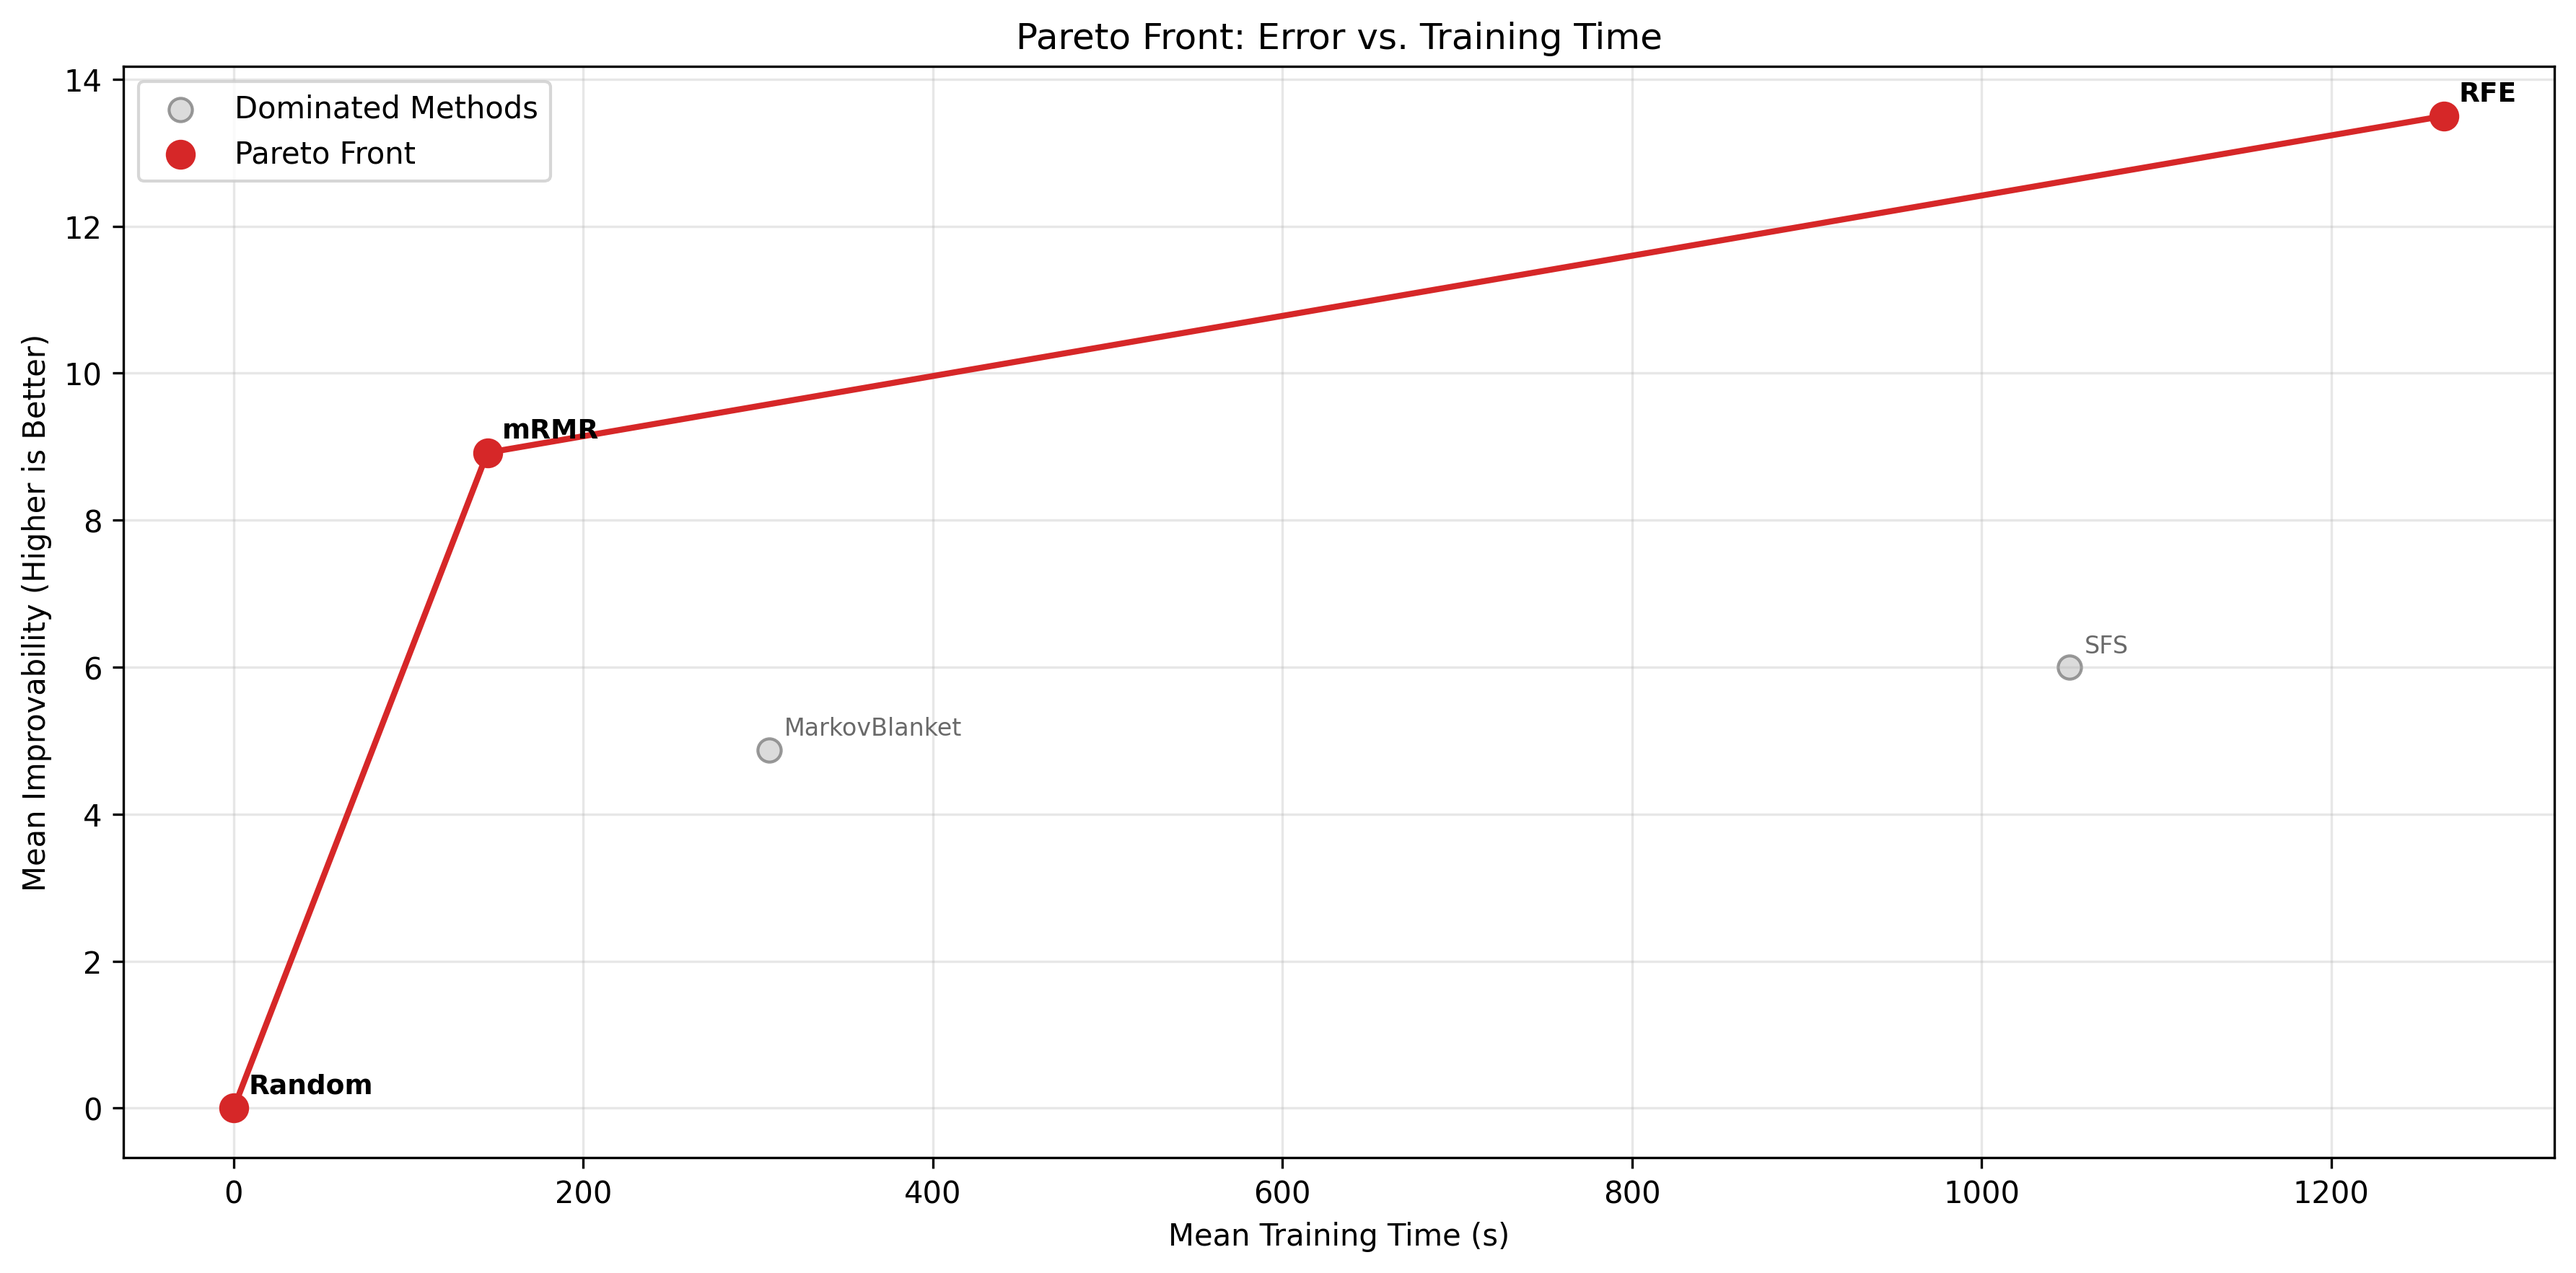
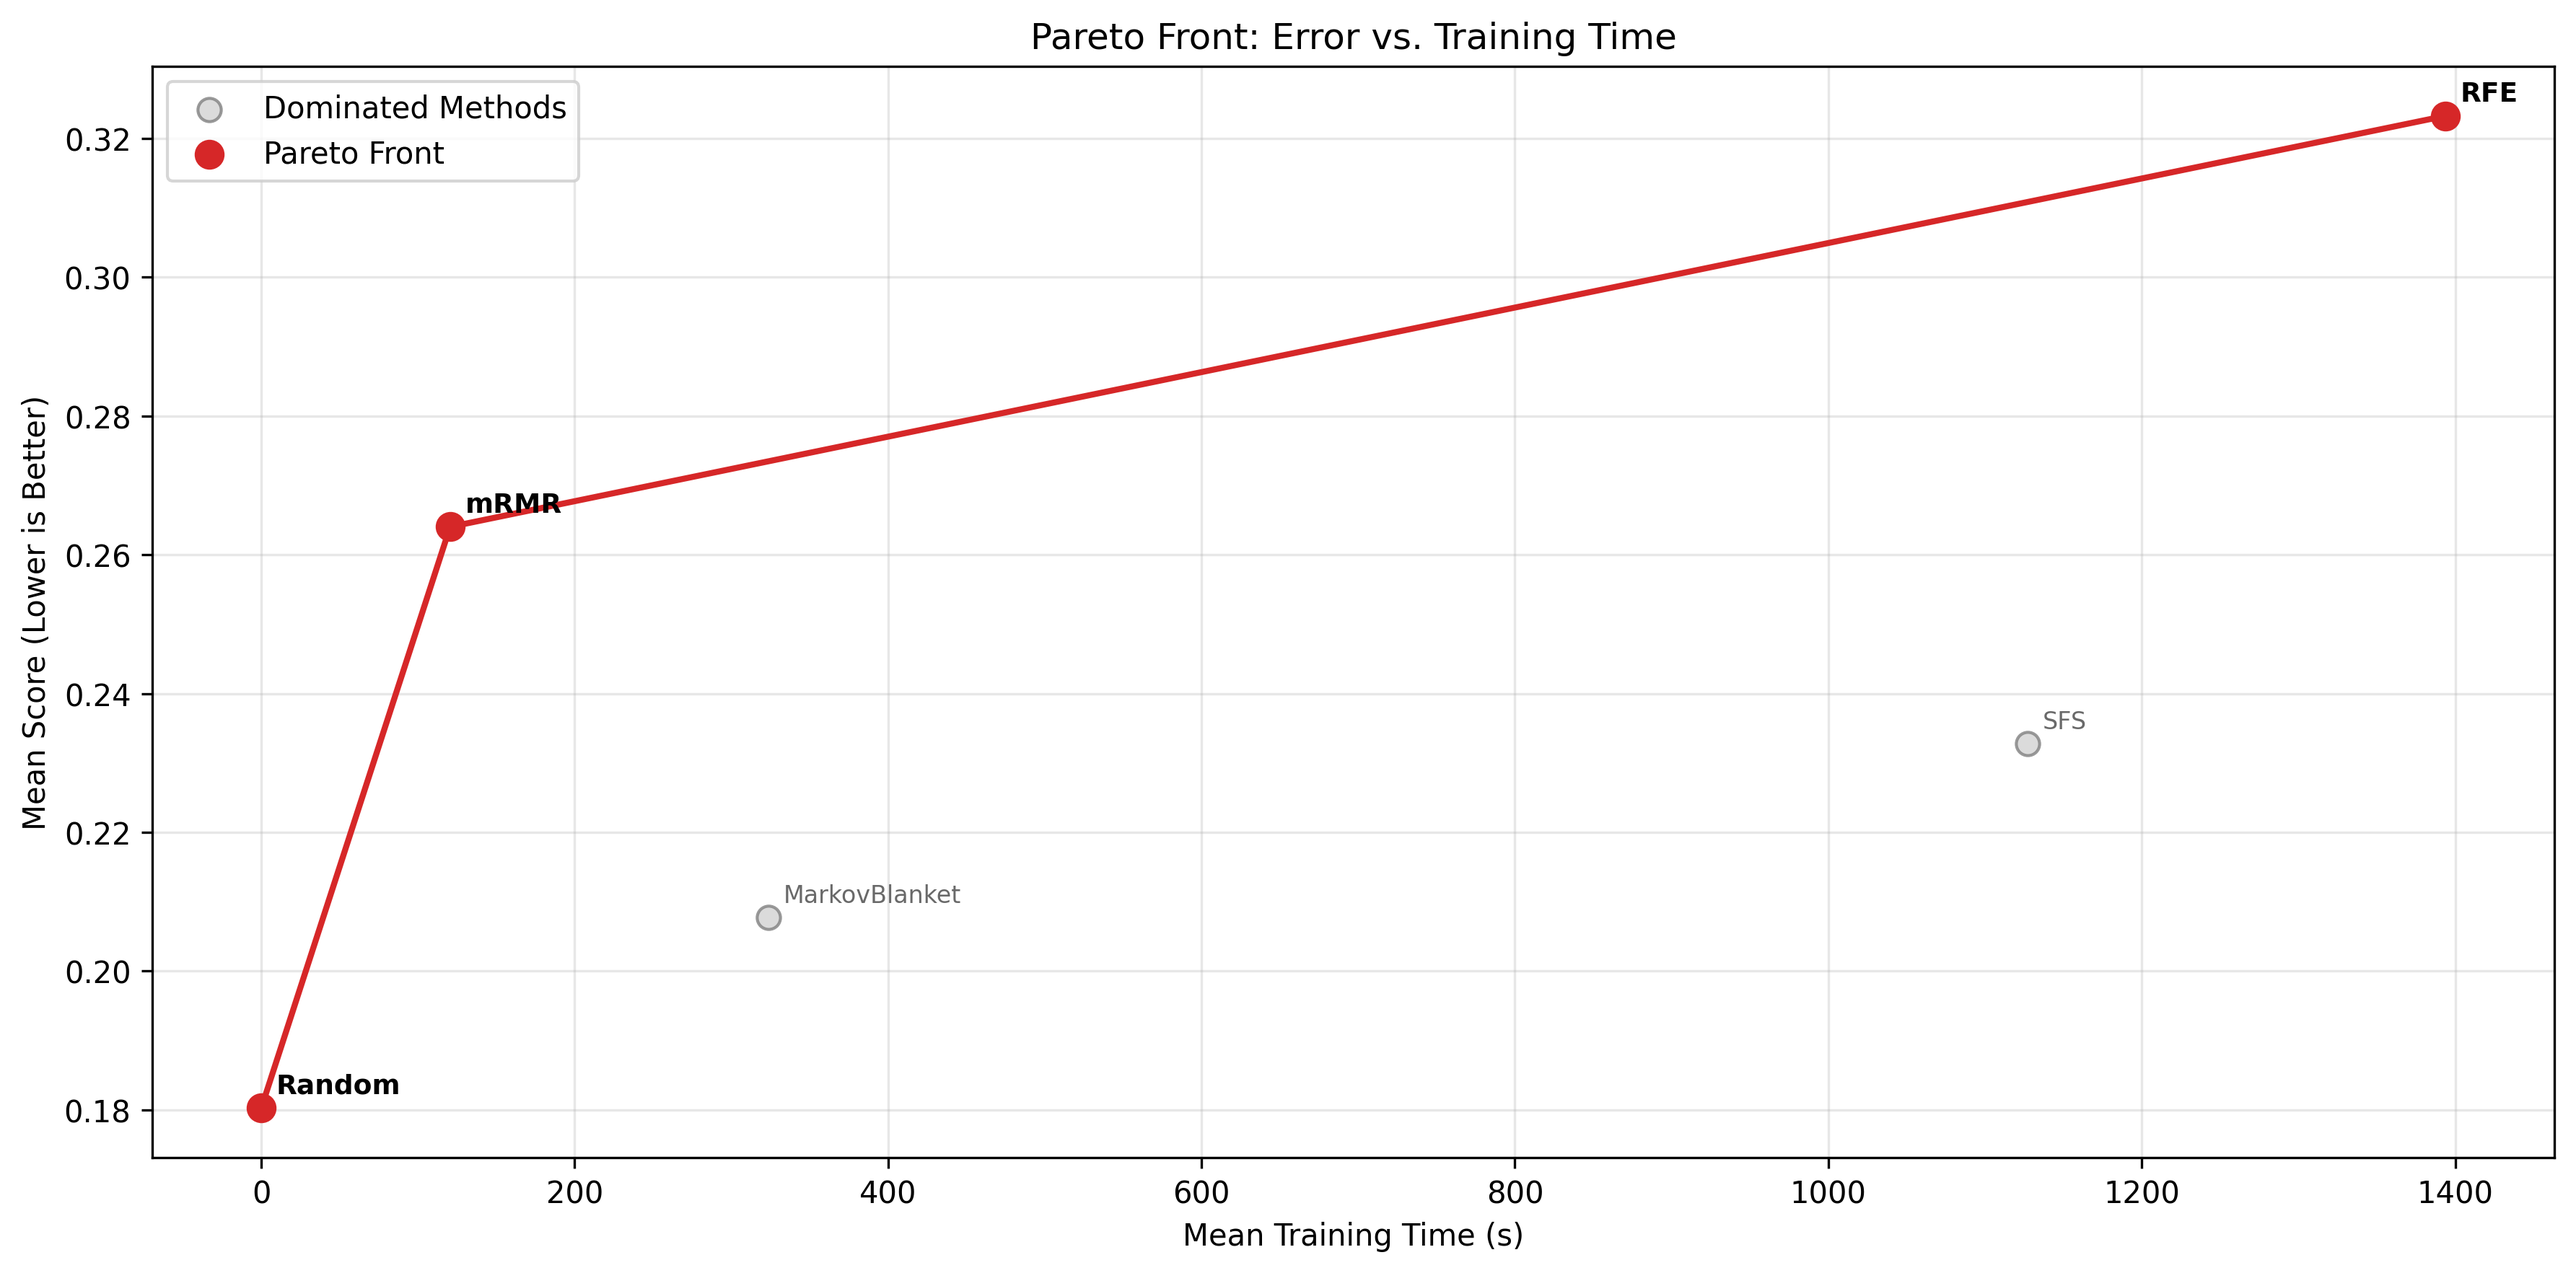
maint: pareto front normalized score - time

diff --git a/plotting_code/performance/normalization/pareto_performance_time_v1.py b/plotting_code/performance/normalization/pareto_performance_time_v1.py
@@ -27,7 +27,7 @@ def calculate_ranks(df):
 
     df = tabarena_normalization(df)
 
-    agg_df = df.groupby("feature_selection_method", "tid").agg(
+    agg_df = df.groupby("feature_selection_method").agg(
         mean_score=("normalized_score", "mean"),
         mean_time=("feature_selection_fit_time", "mean")
     ).reset_index()
@@ -58,10 +58,10 @@ def plot(df):
             # --> IF SCORE IS ACCURACY (Higher is Better), FLIP the score signs below!
 
             time_j_better_or_eq = times[j] <= times[i]
-            score_j_better_or_eq = scores[j] <= scores[i]
+            score_j_better_or_eq = scores[j] >= scores[i]
 
             time_j_strictly_better = times[j] < times[i]
-            score_j_strictly_better = scores[j] < scores[i]
+            score_j_strictly_better = scores[j] > scores[i]
 
             if (time_j_better_or_eq and score_j_better_or_eq) and (time_j_strictly_better or score_j_strictly_better):
                 dominated = True
